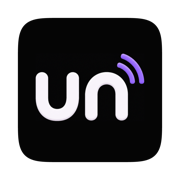
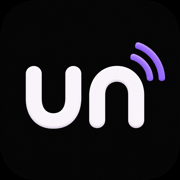
site: use the official wordmark files instead of a drawn one
The previous commit replaced the logo with an SVG I drew to match the icon. That
was wrong — the real brand files already exist. Now using them verbatim:

  unmute-wordmark-black.png  <- Downloads/unmuate_logo_full_black-removebg.png
  unmute-wordmark-white.png  <- Downloads/unmute_new_full_logo-removebg.png
  icon.png / apple-touch-icon <- Downloads/unmute_new_icon.png

Both wordmarks are transparent-background originals, so the theme swap and the
hover swap are pure CSS on the real artwork. The hover bug stays fixed: hover
fills the block with --ink, which inverts the ground under the mark, so the mark
is swapped black<->white at the same time. Four states verified — light/dark x
rest/hover — the wordmark is legible in all of them.

Deleted logo.svg and the older unmute-wordmark*/unmute-logo PNGs. Share card
rebuilt on the official wordmark and icon.

Claude-Session: https://claude.ai/code/session_017D2WGGyfiK8zRbtzCfRRmL

diff --git a/docs.css b/docs.css
@@ -44,13 +44,22 @@ body {
 /* top line: logo + tiny right-aligned nav */
 .top { display: flex; align-items: center; justify-content: space-between; gap: 16px; margin-bottom: 46px; }
 .top .logo { flex: none; display: inline-flex; align-items: center;
-  color: var(--ink); padding: 4px 7px; margin: -4px -7px; border-radius: 8px;
-  text-decoration: none; }
-.top .logo svg { height: 30px; width: 127.5px; display: block; }
-/* hover inverts: the wordmark strokes are currentColor, so they flip with it.
-   This is why the logo is inline SVG and not a <img> — a PNG can't take colour,
-   which is how it used to go dark-on-dark (and light-on-light) on hover. */
-.top .logo:hover { background: var(--ink); color: var(--paper); }
+  padding: 4px 7px; margin: -4px -7px; border-radius: 8px; text-decoration: none; }
+.top .logo img { height: 30px; width: auto; display: block; }
+
+/* Official wordmarks: black on paper, white on charcoal.
+   Hover fills the block with --ink, which flips the background under the mark —
+   so the mark has to flip too, or it goes dark-on-dark / light-on-light. That
+   was the bug. Both files are in the DOM; only one is ever shown. */
+.top .logo .logo-white { display: none; }
+html[data-theme="dark"] .top .logo .logo-black { display: none; }
+html[data-theme="dark"] .top .logo .logo-white { display: block; }
+
+.top .logo:hover { background: var(--ink); }
+.top .logo:hover .logo-black { display: none; }
+.top .logo:hover .logo-white { display: block; }
+html[data-theme="dark"] .top .logo:hover .logo-white { display: none; }
+html[data-theme="dark"] .top .logo:hover .logo-black { display: block; }
 .top nav { display: flex; align-items: center; flex-wrap: wrap; justify-content: flex-end; gap: 16px; font-size: 13px; }
 .top nav a { color: var(--ink-60); }
 .top nav a:hover { background: var(--ink); color: var(--paper); }
@@ -124,8 +133,11 @@ footer { margin-top: 56px; padding-top: 22px; border-top: 1px solid var(--rule);
 footer .links { display: flex; flex-wrap: wrap; gap: 16px; margin-bottom: 12px; }
 footer .links a { color: var(--ink-60); }
 footer .links a:hover { color: var(--paper); }
-footer .logo { color: var(--ink); opacity: 0.72; margin-bottom: 14px; }
-footer .logo svg { height: 22px; width: 93.5px; display: block; }
+footer .logo { opacity: 0.72; margin-bottom: 14px; }
+footer .logo img { height: 22px; width: auto; display: block; }
+footer .logo .logo-white { display: none; }
+html[data-theme="dark"] footer .logo .logo-black { display: none; }
+html[data-theme="dark"] footer .logo .logo-white { display: block; }
 
 
 /* ═══ added for the rebuild ══════════════════════════════════════

diff --git a/index.html b/index.html
@@ -27,7 +27,7 @@
 
     <div class="top">
       <a class="logo" href="./" aria-label="unmute">
-        <svg class="wordmark" viewBox="-12 14 442 104" xmlns="http://www.w3.org/2000/svg" aria-hidden="true" focusable="false"><g fill="none" stroke="currentColor" stroke-width="15" stroke-linecap="round" stroke-linejoin="round"><path d="M0,44 L0,81 A19,19 0 0 0 38,81 L38,44"/><path d="M60,100 L60,63 A19,19 0 0 1 98,63 L98,100"/><path d="M120,100 L120,63 A19,19 0 0 1 158,63 L158,100"/><path d="M158,63 A19,19 0 0 1 196,63 L196,100"/><path d="M218,44 L218,81 A19,19 0 0 0 256,81 L256,44"/><path d="M285,22 L285,81 A19,19 0 0 0 304,100"/><path d="M271,44 L305,44"/><path d="M380,72 A28,28 0 1 0 366,96.2"/><path d="M324,72 L380,72"/></g><g fill="none" stroke="#9B6DFC" stroke-width="11" stroke-linecap="round"><path d="M388.67,38.35 A16,16 0 0 1 407.84,51.77"/><path d="M385.35,22.70 A32,32 0 0 1 423.69,49.55"/></g></svg>
+        <img class="logo-black" src="unmute-wordmark-black.png" alt="unmute" /><img class="logo-white" src="unmute-wordmark-white.png" alt="" aria-hidden="true" />
       </a>
       <nav>
         <a href="dictation.html">dictation</a>
@@ -173,7 +173,7 @@
     </section>
 
     <footer>
-      <div class="logo"><svg class="wordmark" viewBox="-12 14 442 104" xmlns="http://www.w3.org/2000/svg" aria-hidden="true" focusable="false"><g fill="none" stroke="currentColor" stroke-width="15" stroke-linecap="round" stroke-linejoin="round"><path d="M0,44 L0,81 A19,19 0 0 0 38,81 L38,44"/><path d="M60,100 L60,63 A19,19 0 0 1 98,63 L98,100"/><path d="M120,100 L120,63 A19,19 0 0 1 158,63 L158,100"/><path d="M158,63 A19,19 0 0 1 196,63 L196,100"/><path d="M218,44 L218,81 A19,19 0 0 0 256,81 L256,44"/><path d="M285,22 L285,81 A19,19 0 0 0 304,100"/><path d="M271,44 L305,44"/><path d="M380,72 A28,28 0 1 0 366,96.2"/><path d="M324,72 L380,72"/></g><g fill="none" stroke="#9B6DFC" stroke-width="11" stroke-linecap="round"><path d="M388.67,38.35 A16,16 0 0 1 407.84,51.77"/><path d="M385.35,22.70 A32,32 0 0 1 423.69,49.55"/></g></svg></div>
+      <div class="logo"><img class="logo-black" src="unmute-wordmark-black.png" alt="unmute" /><img class="logo-white" src="unmute-wordmark-white.png" alt="" aria-hidden="true" /></div>
       <div class="links">
         <a href="dictation.html">dictation</a>
         <a href="remote.html">unmute remote</a>

diff --git a/manifesto.html b/manifesto.html
@@ -27,7 +27,7 @@
 
     <div class="top">
       <a class="logo" href="./" aria-label="unmute">
-        <svg class="wordmark" viewBox="-12 14 442 104" xmlns="http://www.w3.org/2000/svg" aria-hidden="true" focusable="false"><g fill="none" stroke="currentColor" stroke-width="15" stroke-linecap="round" stroke-linejoin="round"><path d="M0,44 L0,81 A19,19 0 0 0 38,81 L38,44"/><path d="M60,100 L60,63 A19,19 0 0 1 98,63 L98,100"/><path d="M120,100 L120,63 A19,19 0 0 1 158,63 L158,100"/><path d="M158,63 A19,19 0 0 1 196,63 L196,100"/><path d="M218,44 L218,81 A19,19 0 0 0 256,81 L256,44"/><path d="M285,22 L285,81 A19,19 0 0 0 304,100"/><path d="M271,44 L305,44"/><path d="M380,72 A28,28 0 1 0 366,96.2"/><path d="M324,72 L380,72"/></g><g fill="none" stroke="#9B6DFC" stroke-width="11" stroke-linecap="round"><path d="M388.67,38.35 A16,16 0 0 1 407.84,51.77"/><path d="M385.35,22.70 A32,32 0 0 1 423.69,49.55"/></g></svg>
+        <img class="logo-black" src="unmute-wordmark-black.png" alt="unmute" /><img class="logo-white" src="unmute-wordmark-white.png" alt="" aria-hidden="true" />
       </a>
       <nav>
         <a href="dictation.html">dictation</a>
@@ -151,7 +151,7 @@
     </div>
 
     <footer>
-      <div class="logo"><svg class="wordmark" viewBox="-12 14 442 104" xmlns="http://www.w3.org/2000/svg" aria-hidden="true" focusable="false"><g fill="none" stroke="currentColor" stroke-width="15" stroke-linecap="round" stroke-linejoin="round"><path d="M0,44 L0,81 A19,19 0 0 0 38,81 L38,44"/><path d="M60,100 L60,63 A19,19 0 0 1 98,63 L98,100"/><path d="M120,100 L120,63 A19,19 0 0 1 158,63 L158,100"/><path d="M158,63 A19,19 0 0 1 196,63 L196,100"/><path d="M218,44 L218,81 A19,19 0 0 0 256,81 L256,44"/><path d="M285,22 L285,81 A19,19 0 0 0 304,100"/><path d="M271,44 L305,44"/><path d="M380,72 A28,28 0 1 0 366,96.2"/><path d="M324,72 L380,72"/></g><g fill="none" stroke="#9B6DFC" stroke-width="11" stroke-linecap="round"><path d="M388.67,38.35 A16,16 0 0 1 407.84,51.77"/><path d="M385.35,22.70 A32,32 0 0 1 423.69,49.55"/></g></svg></div>
+      <div class="logo"><img class="logo-black" src="unmute-wordmark-black.png" alt="unmute" /><img class="logo-white" src="unmute-wordmark-white.png" alt="" aria-hidden="true" /></div>
       <div class="links">
         <a href="dictation.html">dictation</a>
         <a href="remote.html">unmute remote</a>

diff --git a/remote.html b/remote.html
@@ -27,7 +27,7 @@
 
     <div class="top">
       <a class="logo" href="./" aria-label="unmute">
-        <svg class="wordmark" viewBox="-12 14 442 104" xmlns="http://www.w3.org/2000/svg" aria-hidden="true" focusable="false"><g fill="none" stroke="currentColor" stroke-width="15" stroke-linecap="round" stroke-linejoin="round"><path d="M0,44 L0,81 A19,19 0 0 0 38,81 L38,44"/><path d="M60,100 L60,63 A19,19 0 0 1 98,63 L98,100"/><path d="M120,100 L120,63 A19,19 0 0 1 158,63 L158,100"/><path d="M158,63 A19,19 0 0 1 196,63 L196,100"/><path d="M218,44 L218,81 A19,19 0 0 0 256,81 L256,44"/><path d="M285,22 L285,81 A19,19 0 0 0 304,100"/><path d="M271,44 L305,44"/><path d="M380,72 A28,28 0 1 0 366,96.2"/><path d="M324,72 L380,72"/></g><g fill="none" stroke="#9B6DFC" stroke-width="11" stroke-linecap="round"><path d="M388.67,38.35 A16,16 0 0 1 407.84,51.77"/><path d="M385.35,22.70 A32,32 0 0 1 423.69,49.55"/></g></svg>
+        <img class="logo-black" src="unmute-wordmark-black.png" alt="unmute" /><img class="logo-white" src="unmute-wordmark-white.png" alt="" aria-hidden="true" />
       </a>
       <nav>
         <a href="dictation.html">dictation</a>
@@ -123,7 +123,7 @@
     </section>
 
     <footer>
-      <div class="logo"><svg class="wordmark" viewBox="-12 14 442 104" xmlns="http://www.w3.org/2000/svg" aria-hidden="true" focusable="false"><g fill="none" stroke="currentColor" stroke-width="15" stroke-linecap="round" stroke-linejoin="round"><path d="M0,44 L0,81 A19,19 0 0 0 38,81 L38,44"/><path d="M60,100 L60,63 A19,19 0 0 1 98,63 L98,100"/><path d="M120,100 L120,63 A19,19 0 0 1 158,63 L158,100"/><path d="M158,63 A19,19 0 0 1 196,63 L196,100"/><path d="M218,44 L218,81 A19,19 0 0 0 256,81 L256,44"/><path d="M285,22 L285,81 A19,19 0 0 0 304,100"/><path d="M271,44 L305,44"/><path d="M380,72 A28,28 0 1 0 366,96.2"/><path d="M324,72 L380,72"/></g><g fill="none" stroke="#9B6DFC" stroke-width="11" stroke-linecap="round"><path d="M388.67,38.35 A16,16 0 0 1 407.84,51.77"/><path d="M385.35,22.70 A32,32 0 0 1 423.69,49.55"/></g></svg></div>
+      <div class="logo"><img class="logo-black" src="unmute-wordmark-black.png" alt="unmute" /><img class="logo-white" src="unmute-wordmark-white.png" alt="" aria-hidden="true" /></div>
       <div class="links">
         <a href="./">home</a>
         <a href="dictation.html">dictation</a>

diff --git a/dictation.html b/dictation.html
@@ -27,7 +27,7 @@
 
     <div class="top">
       <a class="logo" href="./" aria-label="unmute">
-        <svg class="wordmark" viewBox="-12 14 442 104" xmlns="http://www.w3.org/2000/svg" aria-hidden="true" focusable="false"><g fill="none" stroke="currentColor" stroke-width="15" stroke-linecap="round" stroke-linejoin="round"><path d="M0,44 L0,81 A19,19 0 0 0 38,81 L38,44"/><path d="M60,100 L60,63 A19,19 0 0 1 98,63 L98,100"/><path d="M120,100 L120,63 A19,19 0 0 1 158,63 L158,100"/><path d="M158,63 A19,19 0 0 1 196,63 L196,100"/><path d="M218,44 L218,81 A19,19 0 0 0 256,81 L256,44"/><path d="M285,22 L285,81 A19,19 0 0 0 304,100"/><path d="M271,44 L305,44"/><path d="M380,72 A28,28 0 1 0 366,96.2"/><path d="M324,72 L380,72"/></g><g fill="none" stroke="#9B6DFC" stroke-width="11" stroke-linecap="round"><path d="M388.67,38.35 A16,16 0 0 1 407.84,51.77"/><path d="M385.35,22.70 A32,32 0 0 1 423.69,49.55"/></g></svg>
+        <img class="logo-black" src="unmute-wordmark-black.png" alt="unmute" /><img class="logo-white" src="unmute-wordmark-white.png" alt="" aria-hidden="true" />
       </a>
       <nav>
         <a href="dictation.html">dictation</a>
@@ -93,7 +93,7 @@
     </section>
 
     <footer>
-      <div class="logo"><svg class="wordmark" viewBox="-12 14 442 104" xmlns="http://www.w3.org/2000/svg" aria-hidden="true" focusable="false"><g fill="none" stroke="currentColor" stroke-width="15" stroke-linecap="round" stroke-linejoin="round"><path d="M0,44 L0,81 A19,19 0 0 0 38,81 L38,44"/><path d="M60,100 L60,63 A19,19 0 0 1 98,63 L98,100"/><path d="M120,100 L120,63 A19,19 0 0 1 158,63 L158,100"/><path d="M158,63 A19,19 0 0 1 196,63 L196,100"/><path d="M218,44 L218,81 A19,19 0 0 0 256,81 L256,44"/><path d="M285,22 L285,81 A19,19 0 0 0 304,100"/><path d="M271,44 L305,44"/><path d="M380,72 A28,28 0 1 0 366,96.2"/><path d="M324,72 L380,72"/></g><g fill="none" stroke="#9B6DFC" stroke-width="11" stroke-linecap="round"><path d="M388.67,38.35 A16,16 0 0 1 407.84,51.77"/><path d="M385.35,22.70 A32,32 0 0 1 423.69,49.55"/></g></svg></div>
+      <div class="logo"><img class="logo-black" src="unmute-wordmark-black.png" alt="unmute" /><img class="logo-white" src="unmute-wordmark-white.png" alt="" aria-hidden="true" /></div>
       <div class="links">
         <a href="./">home</a>
         <a href="remote.html">unmute remote</a>

diff --git a/pricing.html b/pricing.html
@@ -27,7 +27,7 @@
 
     <div class="top">
       <a class="logo" href="./" aria-label="unmute">
-        <svg class="wordmark" viewBox="-12 14 442 104" xmlns="http://www.w3.org/2000/svg" aria-hidden="true" focusable="false"><g fill="none" stroke="currentColor" stroke-width="15" stroke-linecap="round" stroke-linejoin="round"><path d="M0,44 L0,81 A19,19 0 0 0 38,81 L38,44"/><path d="M60,100 L60,63 A19,19 0 0 1 98,63 L98,100"/><path d="M120,100 L120,63 A19,19 0 0 1 158,63 L158,100"/><path d="M158,63 A19,19 0 0 1 196,63 L196,100"/><path d="M218,44 L218,81 A19,19 0 0 0 256,81 L256,44"/><path d="M285,22 L285,81 A19,19 0 0 0 304,100"/><path d="M271,44 L305,44"/><path d="M380,72 A28,28 0 1 0 366,96.2"/><path d="M324,72 L380,72"/></g><g fill="none" stroke="#9B6DFC" stroke-width="11" stroke-linecap="round"><path d="M388.67,38.35 A16,16 0 0 1 407.84,51.77"/><path d="M385.35,22.70 A32,32 0 0 1 423.69,49.55"/></g></svg>
+        <img class="logo-black" src="unmute-wordmark-black.png" alt="unmute" /><img class="logo-white" src="unmute-wordmark-white.png" alt="" aria-hidden="true" />
       </a>
       <nav>
         <a href="dictation.html">dictation</a>
@@ -90,7 +90,7 @@
     </section>
 
     <footer>
-      <div class="logo"><svg class="wordmark" viewBox="-12 14 442 104" xmlns="http://www.w3.org/2000/svg" aria-hidden="true" focusable="false"><g fill="none" stroke="currentColor" stroke-width="15" stroke-linecap="round" stroke-linejoin="round"><path d="M0,44 L0,81 A19,19 0 0 0 38,81 L38,44"/><path d="M60,100 L60,63 A19,19 0 0 1 98,63 L98,100"/><path d="M120,100 L120,63 A19,19 0 0 1 158,63 L158,100"/><path d="M158,63 A19,19 0 0 1 196,63 L196,100"/><path d="M218,44 L218,81 A19,19 0 0 0 256,81 L256,44"/><path d="M285,22 L285,81 A19,19 0 0 0 304,100"/><path d="M271,44 L305,44"/><path d="M380,72 A28,28 0 1 0 366,96.2"/><path d="M324,72 L380,72"/></g><g fill="none" stroke="#9B6DFC" stroke-width="11" stroke-linecap="round"><path d="M388.67,38.35 A16,16 0 0 1 407.84,51.77"/><path d="M385.35,22.70 A32,32 0 0 1 423.69,49.55"/></g></svg></div>
+      <div class="logo"><img class="logo-black" src="unmute-wordmark-black.png" alt="unmute" /><img class="logo-white" src="unmute-wordmark-white.png" alt="" aria-hidden="true" /></div>
       <div class="links">
         <a href="./">home</a>
         <a href="dictation.html">dictation</a>
